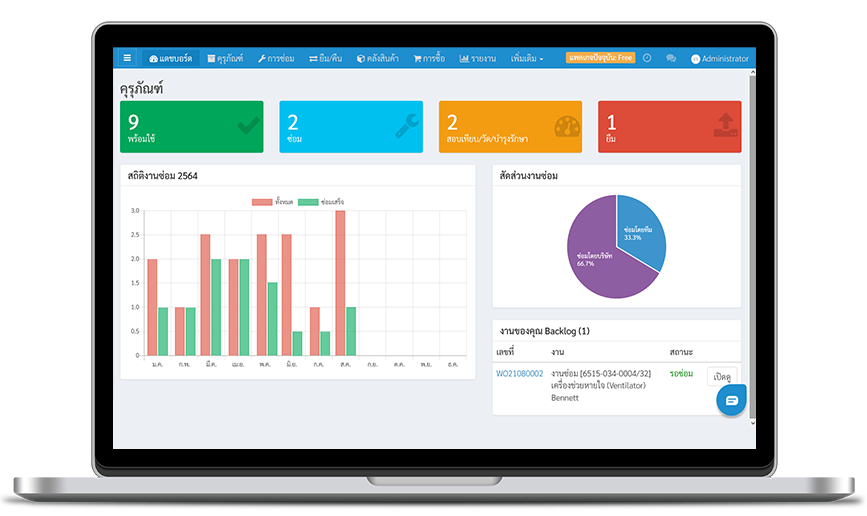
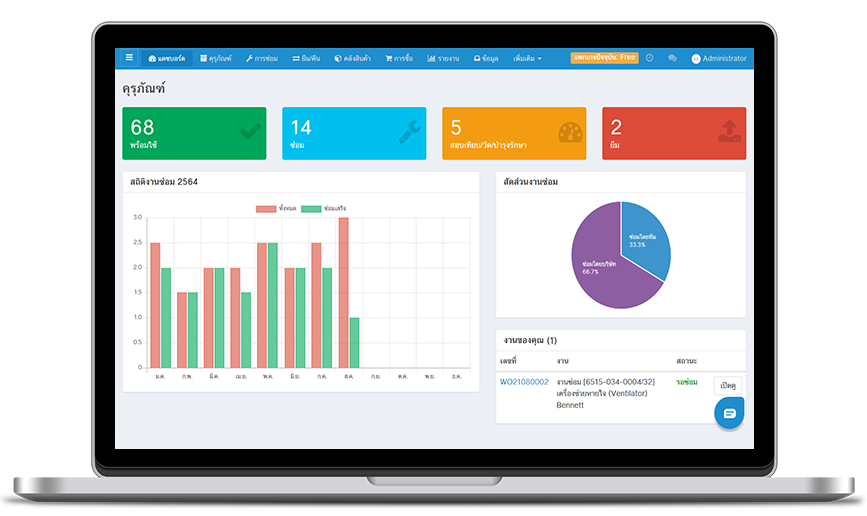
revise navbar style

Changed region(s): [[0.1246, 0.093, 0.872, 0.8372], [0.654, 0.3721, 0.7785, 0.6202]]

diff --git a/static/css/style.css b/static/css/style.css
@@ -9,6 +9,7 @@ body {
   color: #789;
   font-family: "Kanit", sans-serif;
   font-size: 18px;
+  font-weight: 300;
   line-height: 1.8em;
 }
 
@@ -173,7 +174,8 @@ a:hover {
 .nav-menu a {
   display: block;
   position: relative;
-  font-size: 16px;
+  font-size: 14px;
+  font-weight: 500;
   color: #124265;
   transition: 0.3s;
 }
@@ -210,6 +212,7 @@ a:hover {
 
 .nav-menu .drop-down ul a {
   padding: 10px 20px;
+  font-size: 14px;
   font-weight: 500;
   text-transform: none;
   color: #124265;
@@ -398,7 +401,7 @@ a:hover {
 --------------------------------------------------------------*/
 #hero {
   width: 100%;
-  height: 100vh;
+  height: 100vh !important;
   position: relative;
   background: url("../img/bg.jpg") top center;
   background-size: cover;
@@ -416,7 +419,7 @@ a:hover {
 }
 
 #hero .container {
-  padding-top: 40px;
+  padding-top: 20px;
 }
 
 #hero h1 {

diff --git a/templates/index.html b/templates/index.html
@@ -34,8 +34,8 @@
             <ul>
               <li><a href="#">ฟังก์ชั่นงาน</a></li>
               <li><a href="#">ทีมงาน</a></li>
-              <li><a href="#">เวอร์ชั่นล่าสุด</a></li>
               <li><a href="#">API สำหรับนักพัฒนา</a></li>
+              <li><a href="#">เวอร์ชั่นล่าสุด</a></li>
             </ul>
           </li>
           <li class="drop-down"><a href="#"><img src="/static/img/flag/th.png" style="height: 24px" alt=""> Thai</a>
